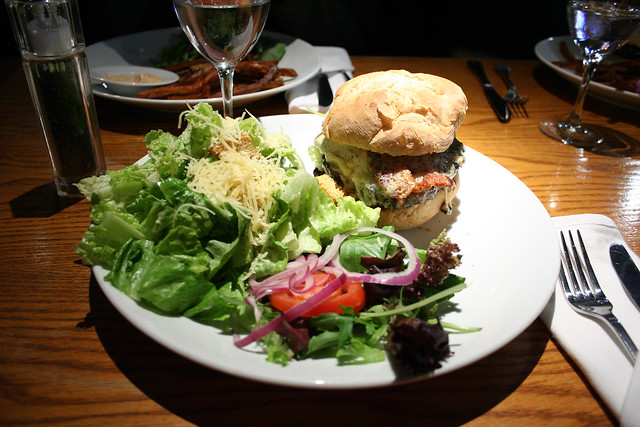
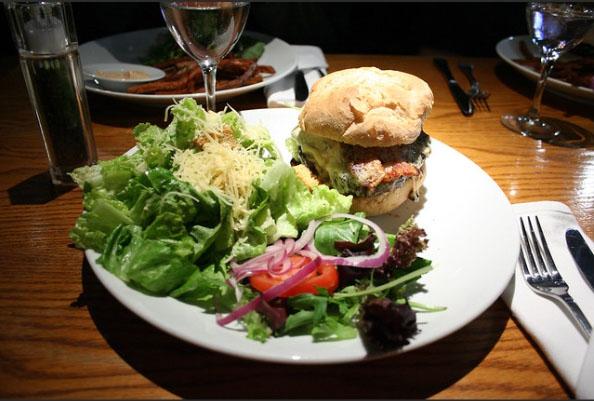
modif taille carousell

diff --git a/index.html b/index.html
@@ -125,13 +125,13 @@
         </div>
     </section>
     <section id="burg_phares">
-        <div class="container-fluid">
+        <div class="container p-0 m-0">
             <div class="row">
                 <div class="carousel p-0 m-0" data-ride="carousel">
                     <div id="carouselExampleSlidesOnly" class="carousel slide" data-ride="carousel">
                         <div class="carousel-item active">
                             <div class="row">
-                                <div class="b_p row col-12 col-md-4 flex-column">
+                                <div class="b_p row col-12 col-md-6 col-lg-4 flex-column">
                                     <h3 class="text-center mx-auto">Nos Burgers phares </h3>
                                     <img src="img/burger.png" alt="burger" class="w-25 mx-auto">
                                     <h3 class="text-center mx-auto">Le Classique</h3>
@@ -139,15 +139,15 @@
                                         cheddar, tomate, salade, oignon,
                                         cornichon</p>
                                 </div>
-                                <div class="burgs1 col-12 col-md-8 p-0 m-0">
+                                <div class="burgs1 col-12 col-md-6 col-lg-8 p-0 m-0">
                                     <img src="img/1973833203_03392424ac_z.jpg" alt="comptois"
-                                        class="d-block">
+                                        class="d-block w-80 h-100">
                                 </div>
                             </div>
                         </div>
                         <div class="carousel-item">
                             <div class="row">
-                                <div class=" b_p row col-12 col-md-4 flex-column">
+                                <div class=" b_p row col-12 col-md-6 col-lg-4 flex-column">
                                     <h3 class="text-center mx-auto">Nos Burgers phares </h3>
                                     <img src="img/burger.png" alt="burger" class="w-25 mx-auto">
                                     <h3 class="text-center mx-auto">Bacon</h3>
@@ -156,15 +156,15 @@
                                         tomate, salade, oignon
                                     </p>
                                 </div>
-                                <div class="burgs1 col-12 col-md-8 p-0 m-0">
+                                <div class="burgs1 col-12 col-md-6 col-lg-8 p-0 m-0">
                                     <img src="img/3009996744_fae083771f_z.jpg" alt="comptois"
-                                        class="d-block w-100 h-100">
+                                        class="d-block w-20 h-100">
                                 </div>
                             </div>
                         </div>
                         <div class="carousel-item">
                             <div class="row ">
-                                <div class=" b_p row col-12 col-md-4 flex-column">
+                                <div class=" b_p row col-12 col-md-6 col-lg-4 flex-column">
                                     <h3 class="text-center mx-auto">Nos Burgers phares </h3>
                                     <img src="img/burger.png" alt="burger" class="w-25 mx-auto">
                                     <h3 class="text-center mx-auto">Comtois</h3>
@@ -172,8 +172,8 @@
                                         salade tomate, oignon
                                     </p>
                                 </div>
-                                <div class="burgs1 col-12 col-md-8 p-0 m-0">
-                                    <img src="img/5677597300_786b7f19e9_z.jpg" alt="comptois" class="d-block w-100 h-100">
+                                <div class="burgs1 col-12 col-md-6 col-lg-8 p-0 m-0">
+                                    <img src="img/5677597300_786b7f19e9_z.jpg" alt="comptois" class="d-block w-20 h-100">
                                 </div>
                             </div>
                         </div>
@@ -333,7 +333,7 @@
     <section id="bar">
         <div class="container-fluid">
             <div class="row titre col-12">
-                <img src="img/bar.png" alt="bar" class="d-block h-100 ml-5">
+                <img src="img/bar.png" alt="bar" class="d-block h-100">
                 <h2 class="text-center">Le coin Bar</h2>
             </div>
             <p class="text-start col-12">Avec ses 20 becs pression et sa large carte de bouteilles, le lieu se dédie à
@@ -348,7 +348,7 @@
         </div>
         <div class="container-fluid ">
             <div class="row">
-                <div id="demo" class="carousel slide col-12 car_bar2" data-ride="carousel">
+                <div id="demo" class="carousel slide" data-ride="carousel">
 
                     <!-- Indicators -->
                     <ul class="carousel-indicators">
@@ -358,17 +358,17 @@
                     </ul>
 
                     <!-- The slideshow -->
-                    <div class="carousel-inner car_bar2">
+                    <div class="carousel-inner">
                         <div class="carousel-item active">
-                            <img src="img/artisan-du-burger-14.jpg" alt="artisan-du-burger" width="1100" height="500">
+                            <img src="img/artisan-du-burger-14.jpg" alt="artisan-du-burger" width="1340" height="900">
                         </div>
                         <div class="carousel-item">
-                            <img src="img/d1ed1e69-76df-4551-8853-4f69a8090f14-2000x1500.jpg" alt="Chicago" width="1100"
-                                height="500">
+                            <img src="img/d1ed1e69-76df-4551-8853-4f69a8090f14-2000x1500.jpg" alt="Chicago" width="1340"
+                                height="900">
                         </div>
                         <div class="carousel-item">
-                            <img src="img/3e9a2846-ed03-413c-b7bb-1193b252c859-1280x850.jpg" alt="New York" width="1100"
-                                height="500">
+                            <img src="img/3e9a2846-ed03-413c-b7bb-1193b252c859-1280x850.jpg" alt="New York" width="1340"
+                                height="900">
                         </div>
                     </div>
 

diff --git a/css/style.css b/css/style.css
@@ -128,13 +128,11 @@ h3 {
   box-shadow: white 2px 2px 4px;
   border: black solid 1px;
 }
-
-.b_p,
-.burgs1 {
+.b_p{
   max-height: 52rem;
 }
-.burgs1 img{
-  min-width: 100%;
+.burgs1{
+  
 }
 .b_p {
   background-color: white;
@@ -227,7 +225,7 @@ h3 {
 
 .titre {
   min-height: 10rem;
-  padding-left: 5rem;
+  padding-left: 20rem;
 }
 .titre img{
   max-width: 10rem;
@@ -242,9 +240,7 @@ h3 {
 }
 #bar p {
   font-size: 2rem;
-  margin: 50px 50px 0 50px;
 }
-
 .cart_bar {
   max-width: 25rem;
   font-size: 3rvw;
@@ -259,7 +255,10 @@ h3 {
   min-width: 100%;
   max-height: 1000px;
 }
-
+.car_bar2{
+  min-height: 5rem;
+background-color: brown;
+}
 #petit_dej {
   background-image: url(../img/coffee-morning-breakfast-croissant-1.jpg);
   background-repeat: no-repeat;
@@ -281,8 +280,8 @@ h3 {
 }
 
 .titre2 img {
-  height: 60%;
-  width: 6rem;
+  max-height: 60%;
+  max-width: 6rem;
   margin-top: 3rem;
   margin-left: 20rem;
 }
